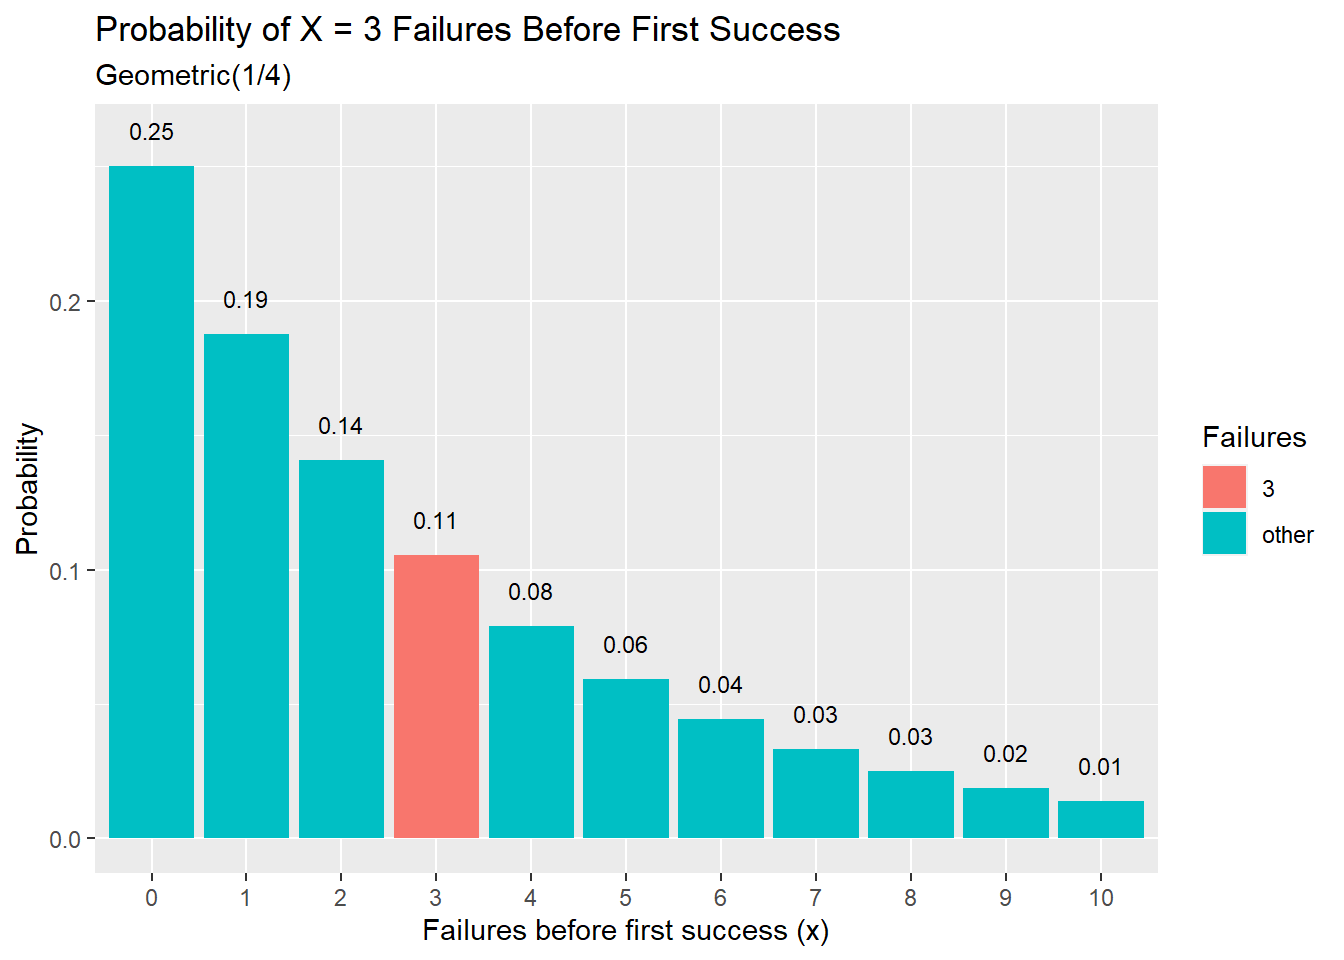
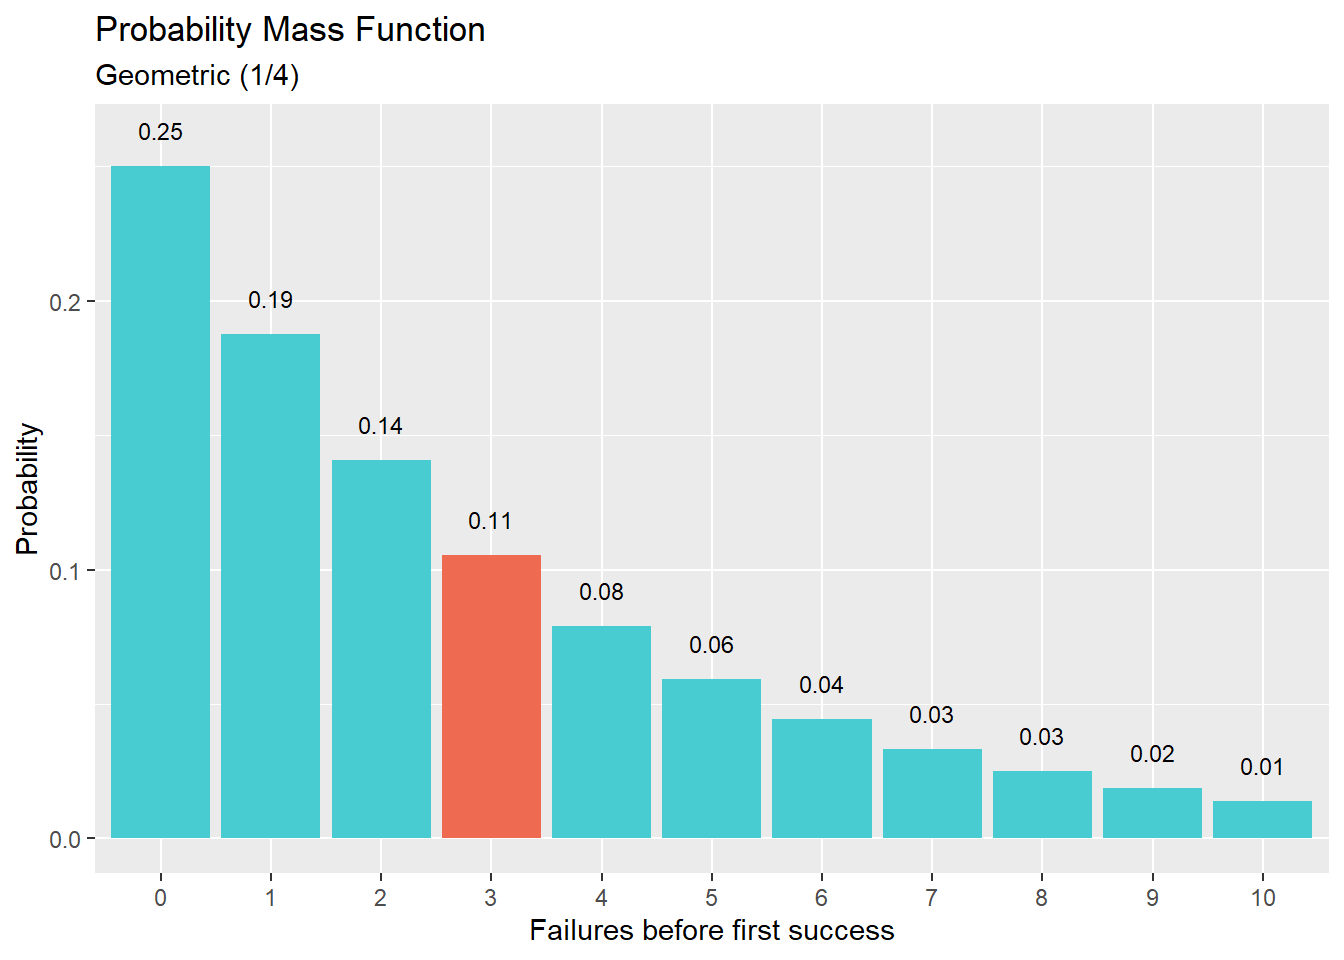
changes 4

diff --git a/משתנים-מקריים-והתפלגויות.html b/משתנים-מקריים-והתפלגויות.html
@@ -24,7 +24,7 @@
 <meta name="author" content="שי מינצר" />
 
 
-<meta name="date" content="2022-02-07" />
+<meta name="date" content="2022-02-08" />
 
   <meta name="viewport" content="width=device-width, initial-scale=1" />
   <meta name="apple-mobile-web-app-capable" content="yes" />
@@ -240,33 +240,42 @@ code span.wa { color: #60a0b0; font-weight: bold; font-style: italic; } /* Warni
 <h1><span class="header-section-number">פרק 9 - </span> משתנים מקריים והתפלגויות</h1>
 <div id="התפלגות-גיאומטרית" class="section level2" number="9.1">
 <h2><span class="header-section-number">9.1</span> התפלגות גיאומטרית</h2>
+<p><b>וקטור של הסתברויות אשר מתפלג לפי התפלגות גיאומטרית</b><br></p>
+<pre><code>rgeom(n, prob)</code></pre>
+<p>דוגמה: נדגום 10 פעמים מתוך התפלגות גיאומטרית עם סיכוי 2/3 להצלחה.
+כמה כשלונות לפני ההצלחה הראשונה היו בכל עשרת התרחישים?</p>
+<div class="sourceCode" id="cb2"><pre class="sourceCode r"><code class="sourceCode r"><span id="cb2-1"><a href="משתנים-מקריים-והתפלגויות.html#cb2-1" aria-hidden="true" tabindex="-1"></a><span class="fu">rgeom</span>(<span class="at">n=</span><span class="dv">10</span>, <span class="at">prob=</span><span class="dv">1</span><span class="sc">/</span><span class="dv">6</span>)</span></code></pre></div>
+<pre><code>##  [1] 2 9 4 1 1 8 0 2 7 1</code></pre>
 <p><b>מציאת הסתברות ספציפית</b><br></p>
 <pre><code>dgeom(x, prob, log = FALSE)</code></pre>
 <p>דוגמא: ההסתברות למאורע של שלושה כשלונות לפני הצלחה כאשר הסיכוי להצלחה בודדת הוא 1/4</p>
-<div class="sourceCode" id="cb2"><pre class="sourceCode r"><code class="sourceCode r"><span id="cb2-1"><a href="משתנים-מקריים-והתפלגויות.html#cb2-1" aria-hidden="true" tabindex="-1"></a>p <span class="ot">=</span> (<span class="dv">1</span><span class="sc">/</span><span class="dv">4</span>)</span>
-<span id="cb2-2"><a href="משתנים-מקריים-והתפלגויות.html#cb2-2" aria-hidden="true" tabindex="-1"></a>n <span class="ot">=</span> <span class="dv">3</span></span>
-<span id="cb2-3"><a href="משתנים-מקריים-והתפלגויות.html#cb2-3" aria-hidden="true" tabindex="-1"></a><span class="fu">dgeom</span>(<span class="at">x =</span> n, <span class="at">prob =</span> p) <span class="co"># 0.1054688</span></span></code></pre></div>
+<div class="sourceCode" id="cb5"><pre class="sourceCode r"><code class="sourceCode r"><span id="cb5-1"><a href="משתנים-מקריים-והתפלגויות.html#cb5-1" aria-hidden="true" tabindex="-1"></a>p <span class="ot">=</span> (<span class="dv">1</span><span class="sc">/</span><span class="dv">4</span>)</span>
+<span id="cb5-2"><a href="משתנים-מקריים-והתפלגויות.html#cb5-2" aria-hidden="true" tabindex="-1"></a>n <span class="ot">=</span> <span class="dv">3</span></span>
+<span id="cb5-3"><a href="משתנים-מקריים-והתפלגויות.html#cb5-3" aria-hidden="true" tabindex="-1"></a><span class="fu">dgeom</span>(<span class="at">x =</span> n, <span class="at">prob =</span> p) <span class="co"># 0.1054688</span></span></code></pre></div>
 <pre><code>## [1] 0.1054688</code></pre>
-<p><img src="R-Tutorials_files/figure-html/unnamed-chunk-2-1.png" width="672" style="display: block; margin: auto auto auto 0;" /></p>
+<p><img src="R-Tutorials_files/figure-html/unnamed-chunk-3-1.png" width="672" style="display: block; margin: auto auto auto 0;" /></p>
 <p><b>הסתברות מצטברת עד לנקודה p</b><br></p>
 <pre><code>pgeom(q, prob, lower.tail = TRUE, log.p = FALSE)</code></pre>
 <p>דוגמא: ההסתברות המצטברת של עד ארבעה כישלונות לפני הצלחה. (כלומר, הסיכוי לקבל ארבעה כשלונות לכל היותר לפני ההצלחה הראשונה. סכום ההסתברויות) מתוך התפלגות גיאומטרית עם הסתברות 1/3 להצלחה.</p>
-<div class="sourceCode" id="cb5"><pre class="sourceCode r"><code class="sourceCode r"><span id="cb5-1"><a href="משתנים-מקריים-והתפלגויות.html#cb5-1" aria-hidden="true" tabindex="-1"></a>p <span class="ot">=</span> <span class="dv">1</span><span class="sc">/</span><span class="dv">3</span></span>
-<span id="cb5-2"><a href="משתנים-מקריים-והתפלגויות.html#cb5-2" aria-hidden="true" tabindex="-1"></a>n <span class="ot">=</span> <span class="dv">4</span></span>
-<span id="cb5-3"><a href="משתנים-מקריים-והתפלגויות.html#cb5-3" aria-hidden="true" tabindex="-1"></a><span class="fu">pgeom</span>(<span class="at">q =</span> n, <span class="at">prob =</span> p, <span class="at">lower.tail =</span> <span class="cn">TRUE</span>) <span class="co"># 0.8683128</span></span></code></pre></div>
+<div class="sourceCode" id="cb8"><pre class="sourceCode r"><code class="sourceCode r"><span id="cb8-1"><a href="משתנים-מקריים-והתפלגויות.html#cb8-1" aria-hidden="true" tabindex="-1"></a>p <span class="ot">=</span> <span class="dv">1</span><span class="sc">/</span><span class="dv">3</span></span>
+<span id="cb8-2"><a href="משתנים-מקריים-והתפלגויות.html#cb8-2" aria-hidden="true" tabindex="-1"></a>n <span class="ot">=</span> <span class="dv">4</span></span>
+<span id="cb8-3"><a href="משתנים-מקריים-והתפלגויות.html#cb8-3" aria-hidden="true" tabindex="-1"></a><span class="fu">pgeom</span>(<span class="at">q =</span> n, <span class="at">prob =</span> p, <span class="at">lower.tail =</span> <span class="cn">TRUE</span>) <span class="co"># 0.8683128</span></span></code></pre></div>
 <pre><code>## [1] 0.8683128</code></pre>
-<p><img src="R-Tutorials_files/figure-html/unnamed-chunk-4-1.png" width="672" style="display: block; margin: auto auto auto 0;" /></p>
+<p><img src="R-Tutorials_files/figure-html/unnamed-chunk-5-1.png" width="672" style="display: block; margin: auto auto auto 0;" /></p>
 <p><b>הסתברות מצטברת מנקודה p (כל הערכים שגדולים מ-p)</b><br></p>
 <p>דוגמא: ההסתברות המצטברת של לפחות חמישה כישלונות לפני הצלחה. (כלומר, הסיכוי לקבל חמישה כשלונות או יותר לפני ההצלחה הראשונה. סכום ההסתברויות) מתוך התפלגות גיאומטרית עם הסתברות 1/3 להצלחה.</p>
-<div class="sourceCode" id="cb7"><pre class="sourceCode r"><code class="sourceCode r"><span id="cb7-1"><a href="משתנים-מקריים-והתפלגויות.html#cb7-1" aria-hidden="true" tabindex="-1"></a>p <span class="ot">=</span> <span class="dv">1</span><span class="sc">/</span><span class="dv">3</span></span>
-<span id="cb7-2"><a href="משתנים-מקריים-והתפלגויות.html#cb7-2" aria-hidden="true" tabindex="-1"></a>n <span class="ot">=</span> <span class="dv">4</span></span>
-<span id="cb7-3"><a href="משתנים-מקריים-והתפלגויות.html#cb7-3" aria-hidden="true" tabindex="-1"></a><span class="fu">pgeom</span>(<span class="at">q =</span> n, <span class="at">prob =</span> p, <span class="at">lower.tail =</span> <span class="cn">FALSE</span>) <span class="co"># 0.1316872</span></span></code></pre></div>
+<div class="sourceCode" id="cb10"><pre class="sourceCode r"><code class="sourceCode r"><span id="cb10-1"><a href="משתנים-מקריים-והתפלגויות.html#cb10-1" aria-hidden="true" tabindex="-1"></a>p <span class="ot">=</span> <span class="dv">1</span><span class="sc">/</span><span class="dv">3</span></span>
+<span id="cb10-2"><a href="משתנים-מקריים-והתפלגויות.html#cb10-2" aria-hidden="true" tabindex="-1"></a>n <span class="ot">=</span> <span class="dv">4</span></span>
+<span id="cb10-3"><a href="משתנים-מקריים-והתפלגויות.html#cb10-3" aria-hidden="true" tabindex="-1"></a><span class="fu">pgeom</span>(<span class="at">q =</span> n, <span class="at">prob =</span> p, <span class="at">lower.tail =</span> <span class="cn">FALSE</span>) <span class="co"># 0.1316872</span></span></code></pre></div>
 <pre><code>## [1] 0.1316872</code></pre>
-<p><img src="R-Tutorials_files/figure-html/unnamed-chunk-6-1.png" width="672" style="display: block; margin: auto auto auto 0;" /></p>
-<p><b>ההסתברות למספר כשלונות לפני הצלחה, בהינתן התפלגות עם סיכוי p להצלחה</b><br></p>
+<p><img src="R-Tutorials_files/figure-html/unnamed-chunk-7-1.png" width="672" style="display: block; margin: auto auto auto 0;" /></p>
+<p><b>מציאת מספר הכשלונות לפני הצלחה בהתפלגות גיאומטרית תיאורטית, המתאים להסתברות מצטברת</b><br>
+זאת בעצם הפונקציה ההופכית של pgeom.</p>
 <pre><code>qgeom(p, prob, lower.tail = TRUE, log.p = FALSE)</code></pre>
-<p><b>וקטור של הסתברויות אשר מתפלג לפי התפלגות גיאומטרית</b><br></p>
-<pre><code>rgeom(n, prob)</code></pre>
+<p>דוגמא: כמה כישלונות ייתקבלו לפני ההצלחה הראשונה בהסתברות מצטברת 0.8 כאשר ההסתברות להצלחה היא 0.2?</p>
+<div class="sourceCode" id="cb13"><pre class="sourceCode r"><code class="sourceCode r"><span id="cb13-1"><a href="משתנים-מקריים-והתפלגויות.html#cb13-1" aria-hidden="true" tabindex="-1"></a><span class="fu">qgeom</span>(<span class="at">p =</span> <span class="fl">0.8</span>, <span class="at">prob =</span> .<span class="dv">2</span>)</span></code></pre></div>
+<pre><code>## [1] 7</code></pre>
+<p><img src="R-Tutorials_files/figure-html/unnamed-chunk-9-1.png" width="672" style="display: block; margin: auto auto auto 0;" /></p>
 <p><a href="https://stat.ethz.ch/R-manual/R-devel/library/stats/html/Geometric.html" target="_blank">התיעוד הרשמי של הפונקציות</a> <br></p>
 
 </div>
